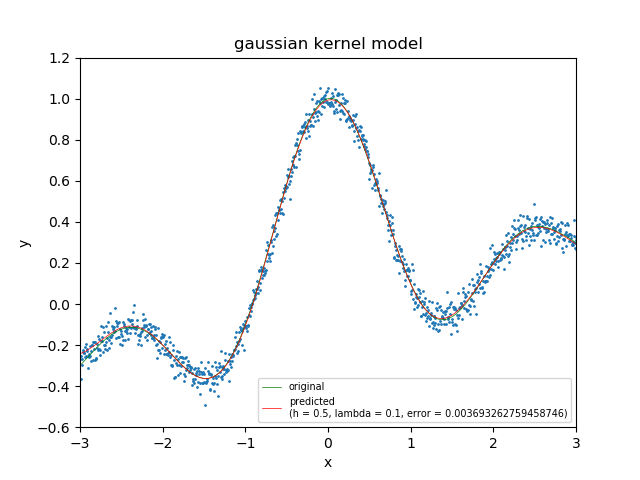
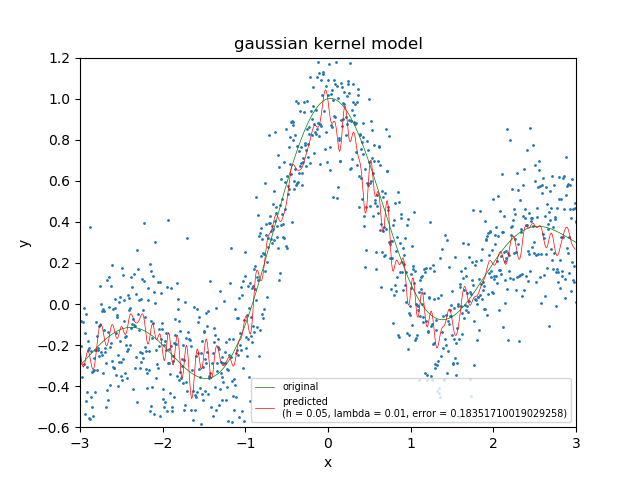
modified kernel.py

diff --git a/intelligent_system/07/kernel.py b/intelligent_system/07/kernel.py
@@ -30,7 +30,7 @@ def generate_data(n):
 		x = 6 * ((float(i + 1) / float(n - 1)) - 0.5)
 		x_data.append(x)
 		x_org.append(x)
-		y_data.append( math.sin(math.pi * x) / (math.pi * x) + 0.1 * x + random.normalvariate(0, 0.2 ** 2) )
+		y_data.append( math.sin(math.pi * x) / (math.pi * x) + 0.1 * x + random.normalvariate(0, 0.2) )
 		y_org.append( math.sin(math.pi * x) / (math.pi * x) + 0.1 * x )
 	return x_data, y_data, x_org, y_org
 
@@ -81,8 +81,8 @@ def cross_validation(n, k, h, lam, x_data, y_data):
 if __name__ == "__main__":
 	n = 1000
 	k = 10
-	h_list = [0.1, 0.5, 1]
-	lam_list = [0.1, 0.5, 1]
+	h_list = [0.05, 1, 5]
+	lam_list = [0.00000001, 0.01, 1]
 
 	x_data, y_data, x_org, y_org = generate_data(n)
 	sklearn.utils.shuffle(x_data, y_data)
@@ -104,6 +104,6 @@ if __name__ == "__main__":
 			plt.legend(fontsize = 'x-small')
 			plt.xlabel("x")
 			plt.ylabel("y")
-			plt.savefig("kernel_h%dl%d.png" %(int(h * 10), int(lam * 10)))
+			plt.savefig("kernel_h%dl%d.png" %(int(h * 100), int(lam * 100)))
 			plt.clf()
 			print("finished case : %f %f" %(h, lam))

diff --git a/intelligent_system/07/svm.py b/intelligent_system/07/svm.py
@@ -78,7 +78,7 @@ if __name__ == "__main__":
 	nx1, nx2 = n_data
 	svm(n * 2, max_iters, e, b, c, p_data, n_data)
 	plt.scatter(px1, px2, s = 3, c = "r")
-	plt.scatter(nx1, nx2, s = 3, c = "b")
+	plt.scatter(nx1, nx2, s = 3, c = "w")
 	plt.title("svm")
 	plt.xlim(-16, 16)
 	plt.ylim(-16, 16)
